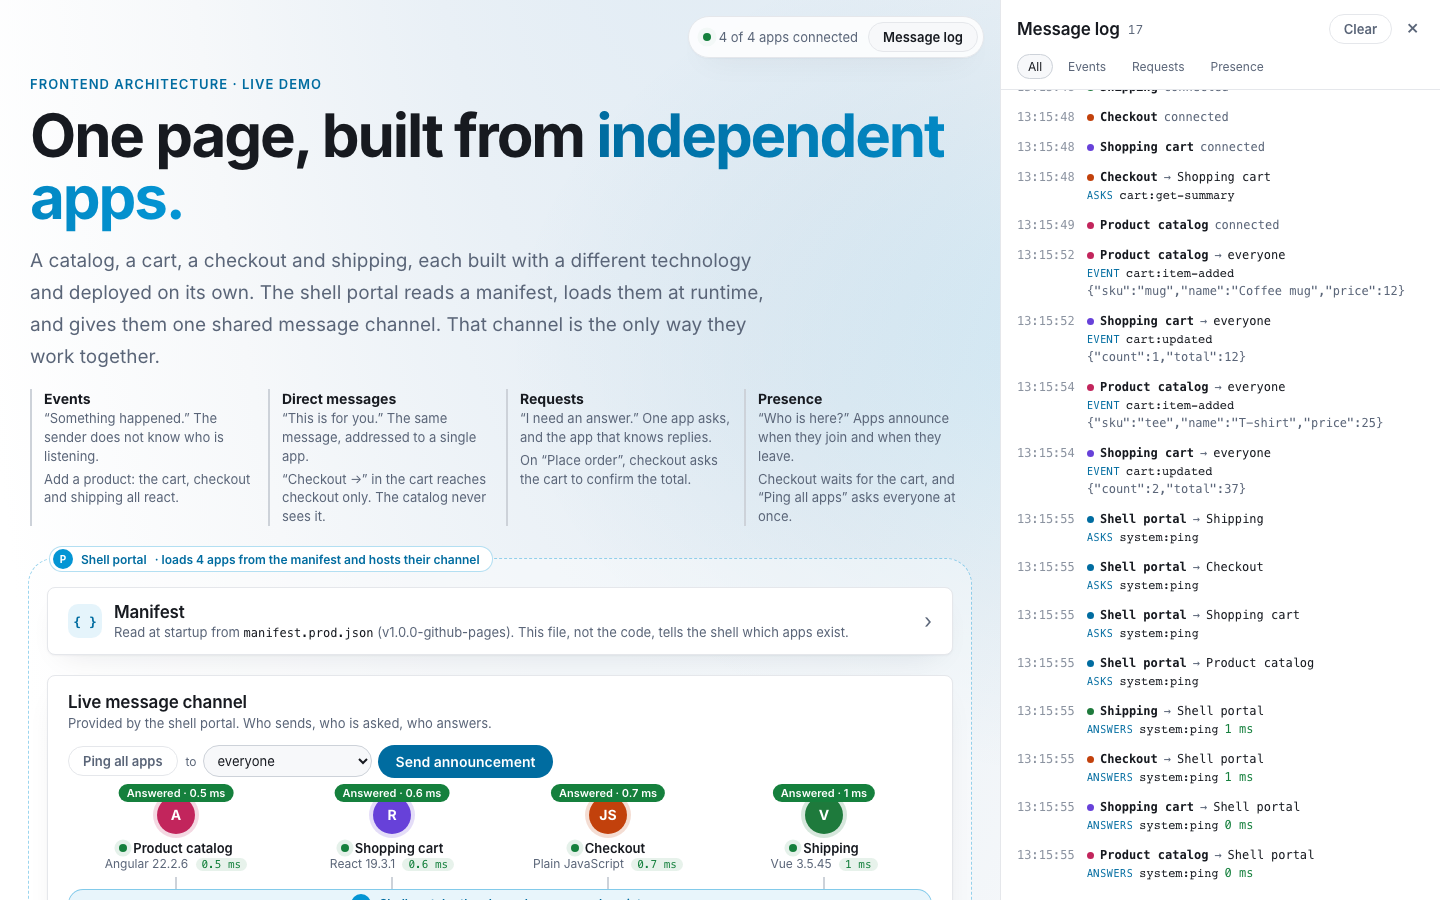
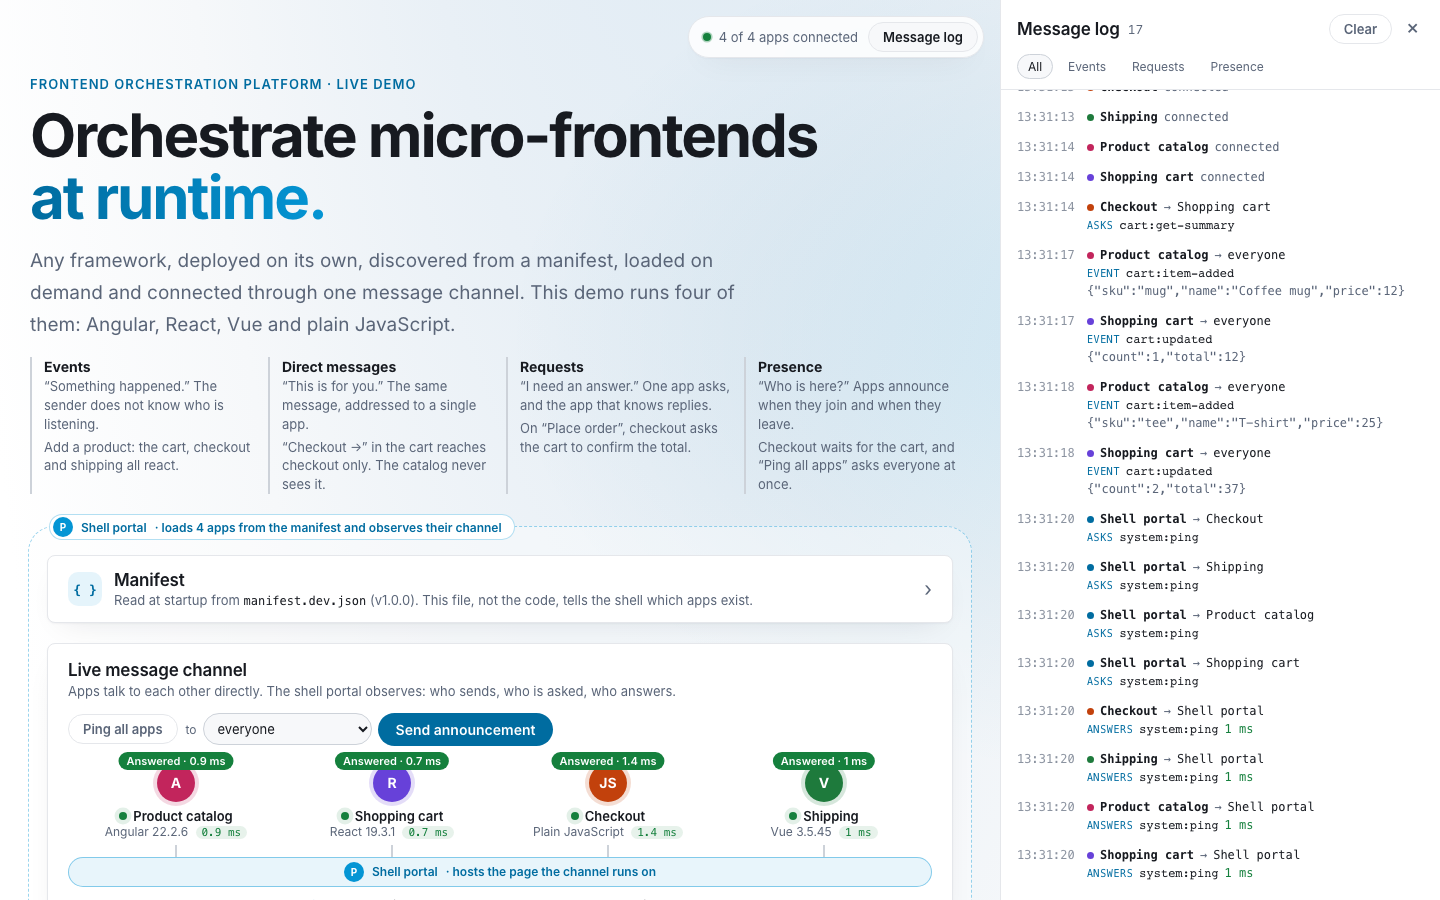
feat: position the demo as the Frontend Orchestration Platform

diff --git a/apps/portal/src/app/app.component.html b/apps/portal/src/app/app.component.html
@@ -25,11 +25,12 @@
 
     <div class="page">
       <section class="hero">
-        <p class="eyebrow">Frontend architecture · Live demo</p>
-        <h1>One page, built from <span class="hl">independent apps.</span></h1>
+        <p class="eyebrow">Frontend Orchestration Platform · Live demo</p>
+        <!-- Non-breaking hyphen and space keep "micro-frontends" and "at runtime" together when the headline wraps. -->
+        <h1>Orchestrate micro&#8209;frontends <span class="hl">at&nbsp;runtime.</span></h1>
         <p class="lede">
-          A catalog, a cart, a checkout and shipping, each built with a different technology and deployed on its own.
-          The shell portal reads a manifest, loads them at runtime, and gives them one shared message channel. That channel is the only way they work together.
+          Any framework, deployed on its own, discovered from a manifest, loaded on demand and connected through one message channel.
+          This demo runs four of them: Angular, React, Vue and plain JavaScript.
         </p>
         <ol class="steps">
           <li>
@@ -63,7 +64,7 @@
         <section class="host" aria-label="Hosted by the shell portal">
           <div class="host-label">
             <span class="p-badge" aria-hidden="true">P</span>
-            Shell portal<span class="long"> · loads {{ mfes.length }} apps from the manifest and hosts their channel</span>
+            Shell portal<span class="long"> · loads {{ mfes.length }} apps from the manifest and observes their channel</span>
           </div>
           @if (manifest) {
             <app-manifest-panel [manifest]="manifest" [url]="manifestUrl" />

diff --git a/apps/portal/src/app/message-channel.component.html b/apps/portal/src/app/message-channel.component.html
@@ -2,7 +2,7 @@
   <div class="head">
     <div>
       <h2 id="channel-title">Live message channel</h2>
-      <p>Provided by the shell portal. Who sends, who is asked, who answers.</p>
+      <p>Apps talk to each other directly. The shell portal observes: who sends, who is asked, who answers.</p>
     </div>
     <div class="actions">
       <button type="button" class="btn-ghost" (click)="ping()" [disabled]="pinging()">
@@ -95,7 +95,7 @@
       }
       <span class="bus-label">
         <span class="p-badge" aria-hidden="true">P</span>
-        Shell portal<span class="long"> · the channel every app plugs into</span>
+        Shell portal<span class="long"> · hosts the page the channel runs on</span>
       </span>
     </div>
   </div>
